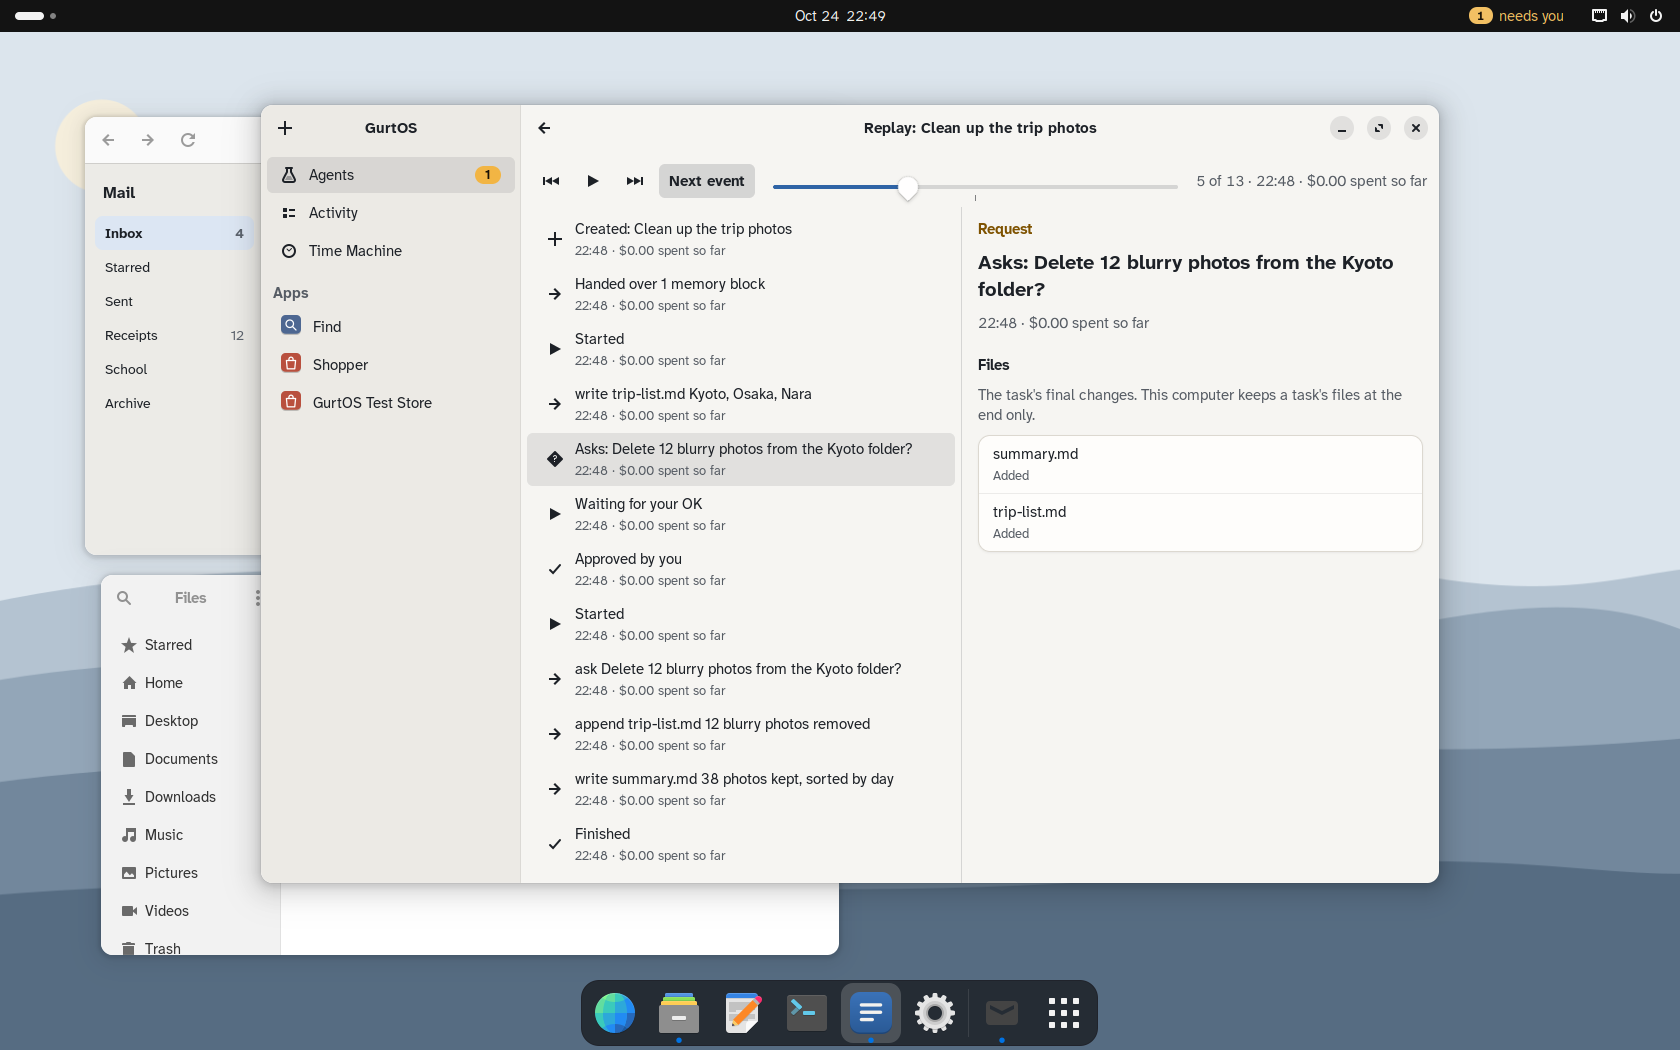
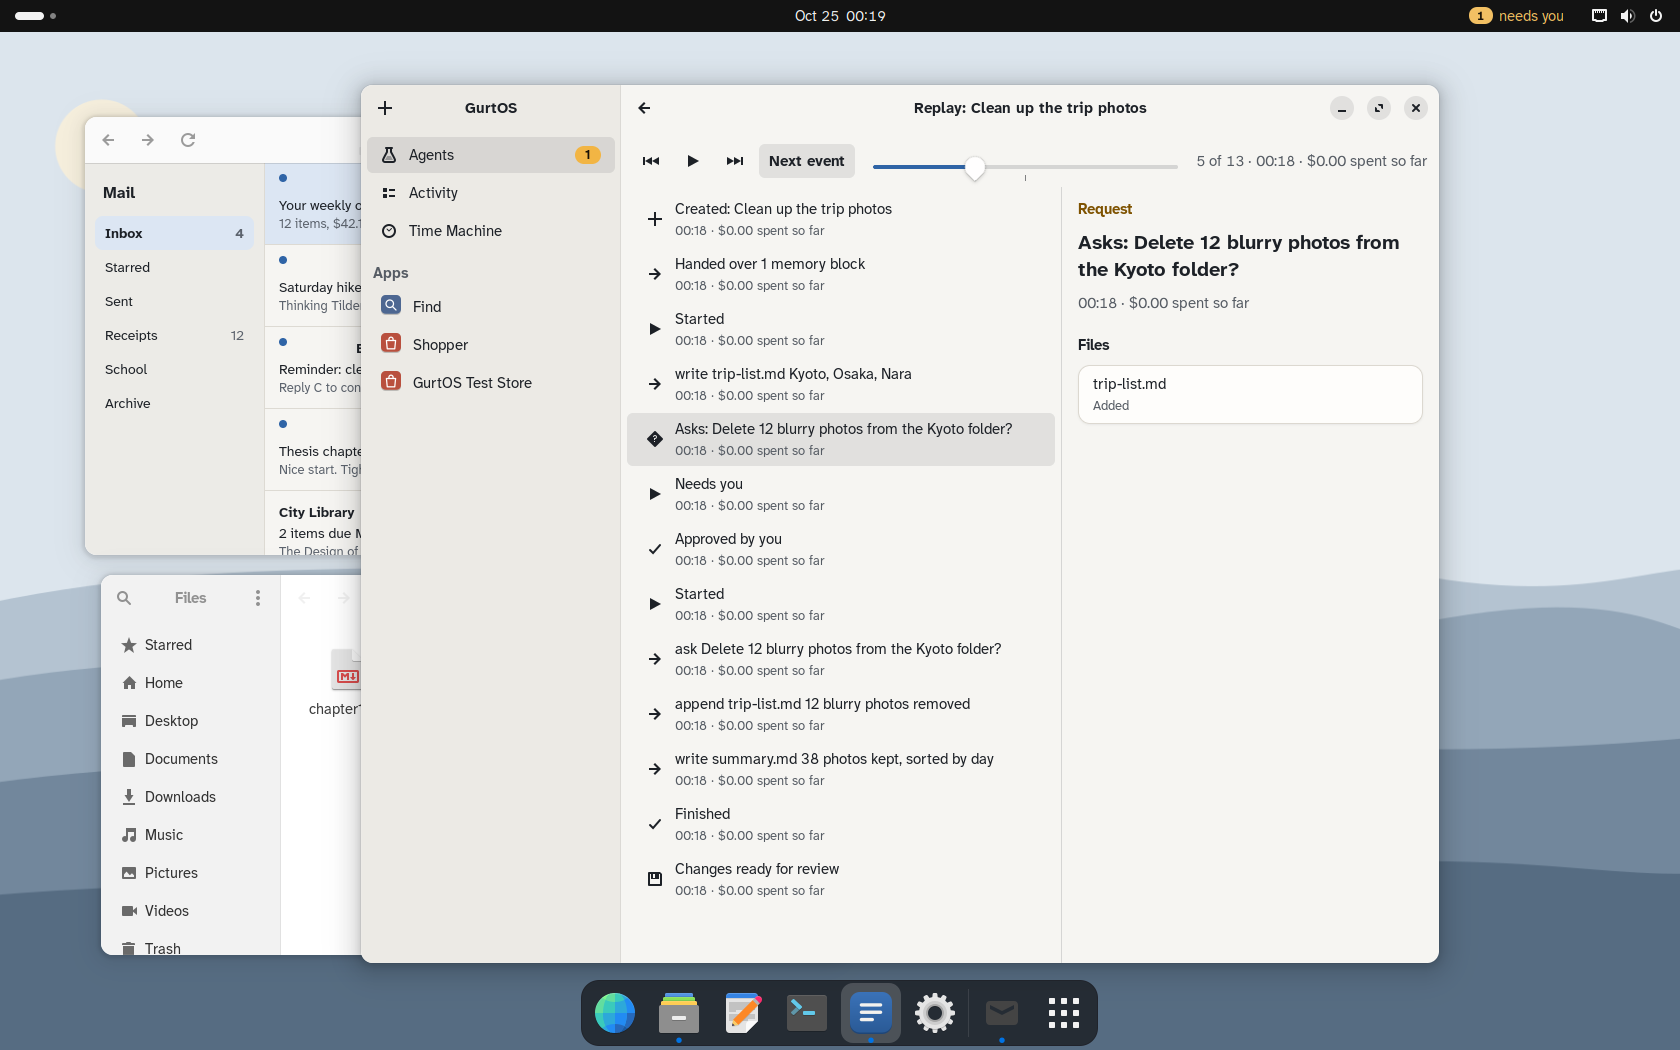
Personal: Replay shows the files at each point (core 095514a), with the portal's lines for older tasks, files gone, after Undo, past 50 MB and big files

Changed region(s): [[0.1238, 0.061, 0.8667, 0.9448], [0.5881, 0.4876, 0.619, 0.5181], [0.4952, 0.0, 0.5262, 0.0305]]

diff --git a/personal/agentsapp.py b/personal/agentsapp.py
@@ -611,7 +611,7 @@ class AgentsWindow(Adw.ApplicationWindow):
     # ----- the flight recorder: a finished task played back (portal/src/apps/replay.tsx) -----
 
     def open_replay(self, task_id):
-        st = {'i': 0, 'points': [], 'playing': 0, 'recorded': None, 'final': None, 'diffs': {}, 'task': {}}
+        st = {'i': 0, 'points': [], 'playing': 0, 'recorded': [], 'capped': False, 'final': None, 'diffs': {}, 'task': {}}
         back = icon_button('media-skip-backward-symbolic', 'Step back', lambda: go(st['i'] - 1))
         play = icon_button('media-playback-start-symbolic', 'Play', lambda: toggle())
         fwd = icon_button('media-skip-forward-symbolic', 'Step forward', lambda: go(st['i'] + 1))
@@ -662,22 +662,22 @@ class AgentsWindow(Adw.ApplicationWindow):
             card.append(label(line, 'title-3'))
             card.append(label(f"{tl.clock(pt['at'])} · {spent(pt['cents'])}", 'dim-label', 'numeric'))
             card.append(label('Files', 'heading', margin_top=12))
-            rec = st['recorded']
-            if rec is not None:  # this computer records the files at each point
-                at = tl.files_at([r['seq'] for r in rec], pt['seq'])
-                if at is None:
-                    return card.append(label('No files changed yet.', 'dim-label'))
-                if at not in st['diffs']:
-                    background(lambda: api('GET', f'/api/tasks/{quote(task_id)}/diff?at={at}'),
-                               lambda d, err: (st['diffs'].__setitem__(at, d if not err else {'changes': []}), st['points'] and pt is st['points'][st['i']] and show(pt)))
-                    return card.append(label('Loading…', 'dim-label'))
-                changes = st['diffs'][at].get('changes', [])
-            else:
+            at, note = tl.files_note(st['points'], st['i'], st['recorded'], st['capped'], st['final'])
+            if at is None and note != tl.BEFORE:  # nothing to list: no files yet, or the files are gone
+                return card.append(label(note, 'dim-label'))
+            if at is None:
                 changes = (st['final'] or {}).get('changes', [])
-                card.append(label("The task's final changes. This computer keeps a task's files at the end only.", 'dim-label'))
+            elif at not in st['diffs']:
+                background(lambda: api('GET', f'/api/tasks/{quote(task_id)}/diff?at={at}'),
+                           lambda d, err: (st['diffs'].__setitem__(at, d if not err else {'changes': []}), st['points'] and pt is st['points'][st['i']] and show(pt)))
+                return card.append(label('Loading…', 'dim-label'))
+            else:
+                changes = st['diffs'][at].get('changes', [])
+            if note:
+                card.append(label(note, 'dim-label'))
             g = Gtk.ListBox(selection_mode=Gtk.SelectionMode.NONE, css_classes=['boxed-list'])
             for c in changes[:40]:
-                r = Adw.ActionRow(title=GLib.markup_escape_text(c['path']), subtitle={'added': 'Added', 'modified': 'Changed', 'deleted': 'Deleted'}.get(c['change'], c['change']))
+                r = Adw.ActionRow(title=GLib.markup_escape_text(c['path']), subtitle={'added': 'Added', 'modified': 'Changed', 'deleted': 'Deleted'}.get(c['change'], c['change']) + (', over 1 MB, not kept' if c.get('big') else ''))
                 g.append(r)
             if not changes:
                 g.append(Adw.ActionRow(title='No files changed'))
@@ -727,8 +727,8 @@ class AgentsWindow(Adw.ApplicationWindow):
         def loaded(result, err):
             if err:
                 return p.set_child(Adw.StatusPage(icon_name='dialog-error-symbolic', title='Could not load this task', description=GLib.markup_escape_text(str(err))))
-            detail, final, recorded = result
-            st['task'], st['final'], st['recorded'] = detail['task'], final, recorded
+            detail, final, (recorded, capped) = result
+            st['task'], st['final'], st['recorded'], st['capped'] = detail['task'], final, recorded, capped
             p.title_widget.set_title(f"Replay: {detail['task']['title']}")
             p.set_title(f"Replay: {detail['task']['title']}")
             st['points'] = pts = tl.replay_points(detail.get('events', []))
@@ -751,10 +751,11 @@ class AgentsWindow(Adw.ApplicationWindow):
                 final = api('GET', f'/api/tasks/{quote(task_id)}/diff')
             except Exception:  # noqa: BLE001
                 final = {'changes': []}
-            try:  # the files at each point, once core records them; else the final files only
-                recorded = api('GET', f'/api/tasks/{quote(task_id)}/replay').get('points')
+            try:  # the seqs core kept the task's files at; none for older tasks and purged ones
+                r = api('GET', f'/api/tasks/{quote(task_id)}/replay')
+                recorded = ([p['seq'] for p in r.get('points') or []], bool(r.get('capped')))
             except Exception:  # noqa: BLE001
-                recorded = None
+                recorded = ([], False)
             return detail, final, recorded
         background(fetch, loaded)
         outer.set_focusable(True)

diff --git a/personal/selftest.py b/personal/selftest.py
@@ -266,3 +266,14 @@ first = tl.next_matter(pts, 0)
 check(kinds[0] == 'start' and 'ask' in kinds and 'approved' in kinds and pts[first]['kind'] == 'ask'
       and tl.next_matter(pts, first) == kinds.index('approved') and all(a['cents'] <= b['cents'] for a, b in zip(pts, pts[1:])),
       f"Replay: {len(pts)} points from start to done, Next event goes to the request then the answer, spending only rises")
+
+# Replay's Files line, from core's per-point files (GET /api/tasks/:id/replay): the same cases as the portal.
+rec = api('GET', f"/api/tasks/{t_app['id']}/replay")
+fp = [{'seq': 1, 'kind': 'start'}, {'seq': 5, 'kind': 'step'}, {'seq': 9, 'kind': 'undone'}]
+check(isinstance(rec.get('points'), list)
+      and tl.files_note(fp, 0, [3], False, {}) == (None, 'No files changed yet.') and tl.files_note(fp, 1, [3], False, {}) == (3, None)
+      and tl.files_note(fp, 2, [3], False, {})[1] == 'As they were before Undo removed them.'
+      and tl.files_note(fp, 1, [3], True, {})[1].startswith('Recording stopped at 50 MB')
+      and tl.files_note(fp, 1, [], False, {'changes': [{'path': 'a'}]}) == (None, tl.BEFORE)
+      and tl.files_note(fp, 1, [], False, {'undone': True}) == (None, tl.GONE),
+      f"Replay files: {len(rec['points'])} recorded points; no files yet, the files at a point, after Undo, past 50 MB, an older task, files gone")

diff --git a/personal/tasklogic.py b/personal/tasklogic.py
@@ -264,3 +264,26 @@ def next_matter(points, i, step=1):
 def files_at(recorded, seq):
     """The newest recorded file state at or before a point."""
     return max((s for s in recorded if s <= seq), default=None)
+
+
+GONE = "This task's files are gone."
+BEFORE = "This task ran before GurtOS kept its files at each step, so this shows its final changes."
+
+
+def files_note(points, i, recorded, capped, final):
+    """What the Files part of Replay says at point i: (seq of the recorded files to show, or None for the final diff
+    or nothing, and the line under it). recorded is the seqs core kept, oldest first; [] for a task from before it
+    recorded files, or one whose files were purged."""
+    if not recorded:
+        if (final or {}).get('undone') or not (final or {}).get('changes'):
+            return None, GONE
+        return None, BEFORE
+    at = files_at(recorded, points[i]['seq'])
+    if at is None:
+        return None, 'No files changed yet.'
+    last = next((p['kind'] for p in reversed(points[:i + 1]) if p['kind'] in ('kept', 'undone')), None)
+    if last == 'undone':
+        return at, 'As they were before Undo removed them.'
+    if capped and at == recorded[-1] and points[i]['seq'] > at:
+        return at, 'Recording stopped at 50 MB for this task, so this shows the last files it kept.'
+    return at, None
